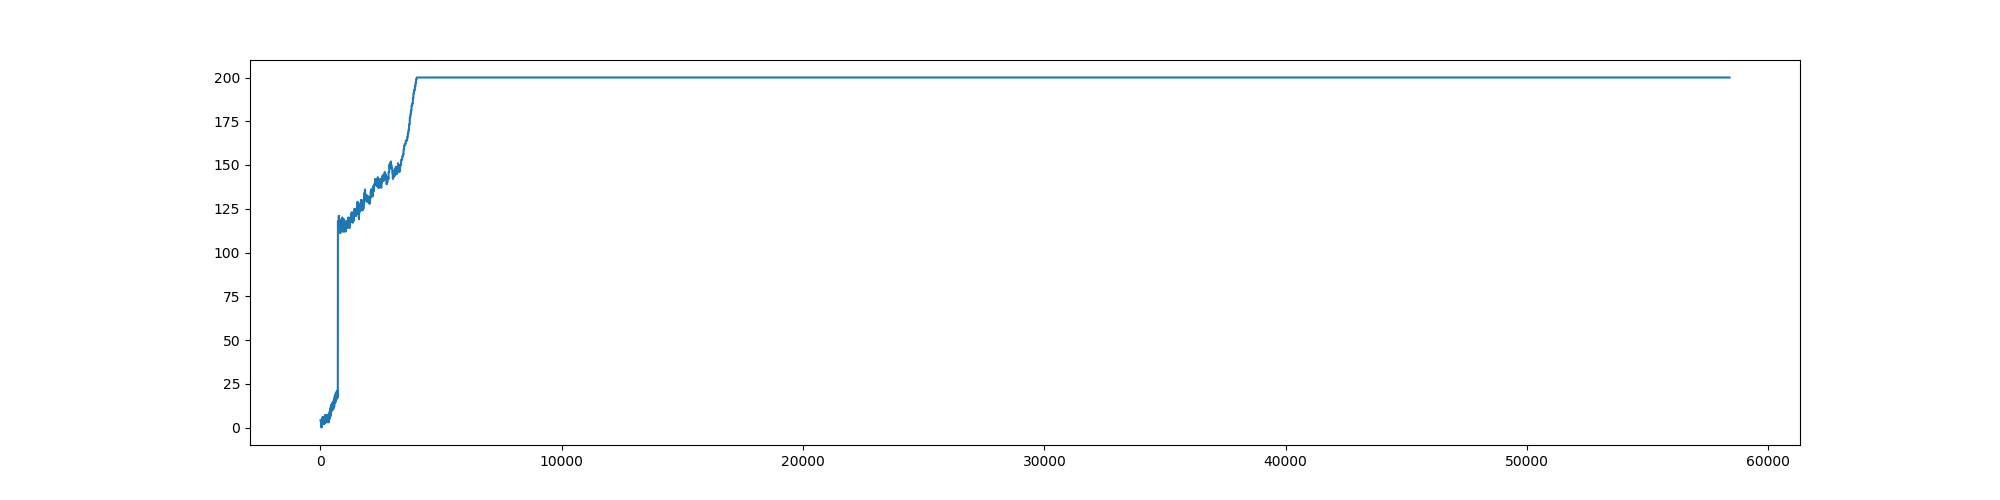
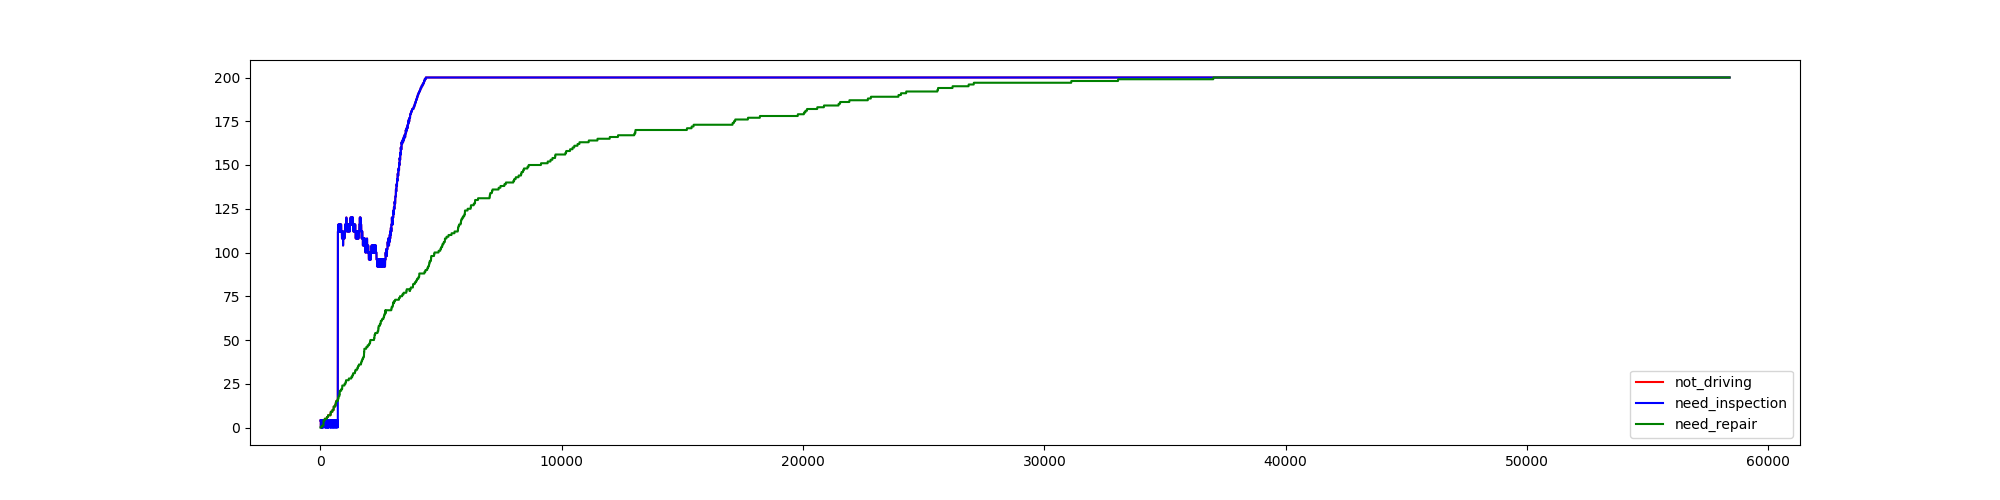
modify all

diff --git a/main.py b/main.py
@@ -26,6 +26,8 @@ def main():
 	plot_array = np.zeros([200, \
 						   args.total_step_by_three_hour])
 	not_driving_windfarm = []
+	need_inspection_list = []
+	need_repair_list = []
 	total_generated_power = []
 
 	# 初期状態は, 0 ~ total_nubmer_of_shipsの風車が点検されている状態
@@ -44,7 +46,13 @@ def main():
 		after_windfarm = ship_plan.time_step(t, windfarm_state)
 		plot_array[:, t] = [wf.generating_power for wf in \
 							windfarm_state.all_windfarm]
-		not_driving_windfarm.append(windfarm_state.total_driving_windfarm(after_windfarm))
+		print([s.target_windfarm for s in ship_plan.all_ships], \
+				[s.stay_harbor for s in ship_plan.all_ships])
+		count_not_driving_windfarm, count_need_inspection, count_need_repair = \
+			windfarm_state.total_not_driving_windfarm(after_windfarm)
+		not_driving_windfarm.append(count_not_driving_windfarm)
+		need_inspection_list.append(count_need_inspection)
+		need_repair_list.append(count_need_repair)
 		total_generated_power.append(windfarm_state.total_calc_generated_kwh())
 
 	print("total_calc_generated_kwh", windfarm_state.total_calc_generated_kwh())
@@ -54,12 +62,17 @@ def main():
 						  ship_plan.total_driving_cost - 400000000 *
 						  args.total_number_of_ships)
 
+	"""
 	for i in range(int(args.total_step_by_three_hour/1000)):
 		plt.figure()
 		plt.imshow(plot_array[:, i * 1000:((i + 1) * 1000)])
 		plt.savefig("data/total_generating_power/" + str(i) + ":" + str(i + 1000) + ".png")
+	"""
 	plt.figure(figsize=(20, 5))
-	plt.plot(np.arange(args.total_step_by_three_hour), not_driving_windfarm)
+	plt.plot(np.arange(args.total_step_by_three_hour), not_driving_windfarm, c="r", label="not_driving")
+	plt.plot(np.arange(args.total_step_by_three_hour), need_inspection_list, c="b", label="need_inspection")
+	plt.plot(np.arange(args.total_step_by_three_hour), need_repair_list, c="g", label="need_repair")
+	plt.legend()
 	plt.savefig("data/not_driving_windfarm.png")
 	plt.figure(figsize=(20, 5))
 	plt.plot(np.arange(args.total_step_by_three_hour), total_generated_power)

diff --git a/windfarm.py b/windfarm.py
@@ -47,15 +47,18 @@ class Windfarm():
 		else:
 			self.time_from_last_inspection += 3
 
-	def check_there_is_ship(self):
+	def check_there_is_ship(self, state):
 		if self.there_is_ship:
-			self.need_inspection = True
+			if state == 'inspection':
+				self.need_inspection = True
+			else:
+				self.need_repair = True
 
 	def check_present_situation(self, state, t, tenken):
 		self.broken_occasionally()
 		self.check_need_inspection()
-		self.check_there_is_ship()
 		if state == 'inspection':
+			self.check_there_is_ship()
 			if self.need_inspection:
 				self.progress_inspection_time += self.there_is_ship * \
 												 tenken[t] * 3
@@ -65,6 +68,7 @@ class Windfarm():
 					self.there_is_ship = False
 
 		elif state == 'repair':
+			self.check_there_is_ship()
 			if self.need_repair:
 				self.progress_repair_time += self.there_is_ship * \
 												 tenken[t] * 3

diff --git a/windfarm_state.py b/windfarm_state.py
@@ -43,12 +43,16 @@ class Windfarm_state():
 		return tmp
 
 	# 動ける風車の数を返す
-	def total_driving_windfarm(self, windfarm):
-		count = 0
+	def total_not_driving_windfarm(self, windfarm):
+		count_need_inspection = 0
+		count_need_repair = 0
 		for wi in windfarm:
-			if wi.need_inspection or wi.need_repair:
-				count += 1
-		return count
+			if wi.need_inspection:
+				count_need_inspection += 1
+			if wi.need_repair:
+				count_need_repair += 1
+		return max(count_need_repair, count_need_inspection),\
+			count_need_inspection, count_need_repair
 
 	def total_calc_generated_kwh(self):
 		return sum([wf.generated_power for wf in self.all_windfarm]) * 36

diff --git a/ship_plan.py b/ship_plan.py
@@ -5,6 +5,7 @@ from ships import Ships
 class Ship_plan():
 	def __init__(self, total_number_of_ships, environment, windfarm):
 		self.total_number_of_ships = total_number_of_ships
+		# 点検船
 		self.all_ships = [Ships(s) for s in range(total_number_of_ships)]
 		self.environment = environment
 		self.windfarm = windfarm
